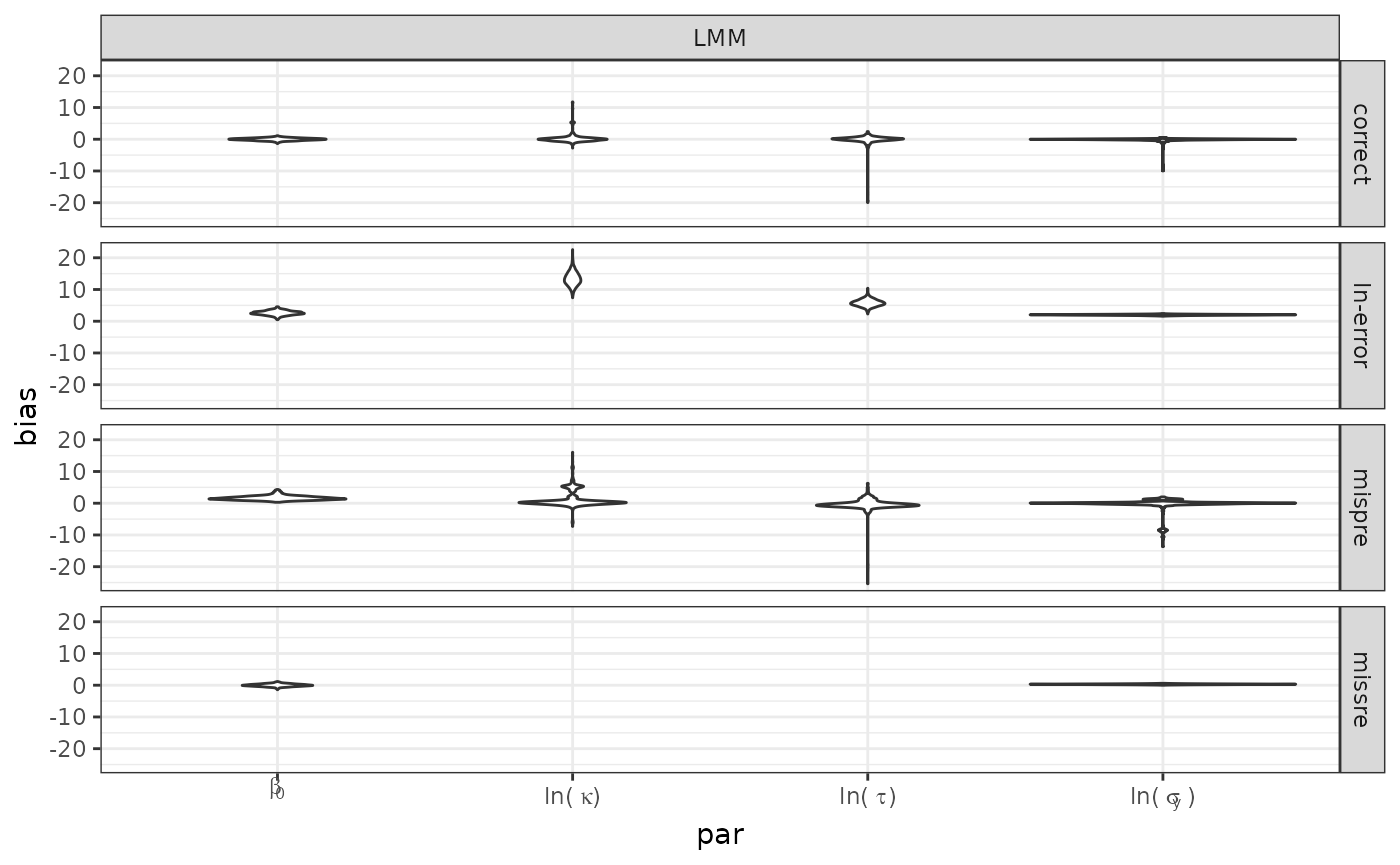
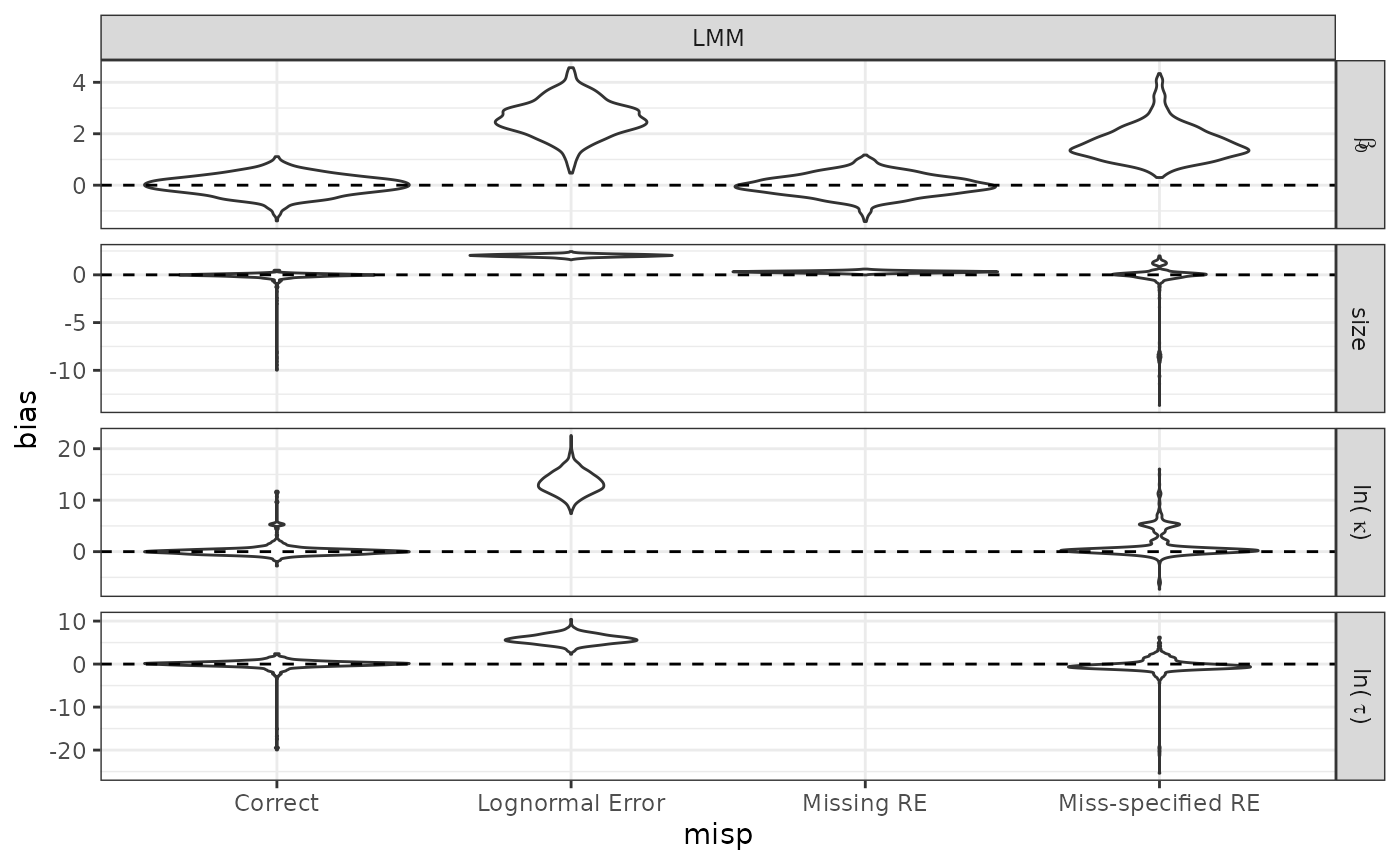
cli-147-224

diff --git a/articles/TMB-validation-figures-results-mles.html b/articles/TMB-validation-figures-results-mles.html
@@ -127,6 +127,60 @@
 
     
     
+<div class="sourceCode" id="cb1"><pre class="downlit sourceCode r">
+<code class="sourceCode R"><span><span class="va">mles</span><span class="op">$</span><span class="va">misp</span> <span class="op">&lt;-</span> <span class="fu"><a href="https://rdrr.io/r/base/factor.html" class="external-link">factor</a></span><span class="op">(</span><span class="va">mles</span><span class="op">$</span><span class="va">misp</span>,</span>
+<span>                    levels <span class="op">=</span> <span class="fu"><a href="https://rdrr.io/r/base/c.html" class="external-link">c</a></span><span class="op">(</span></span>
+<span>                      <span class="st">"correct"</span>, </span>
+<span>                      <span class="st">"overdispersion"</span>, </span>
+<span>                      <span class="st">"gamma-normal"</span>,</span>
+<span>                      <span class="st">"hsk"</span>,</span>
+<span>                      <span class="st">"nb-pois"</span>,</span>
+<span>                      <span class="st">"missunifcov"</span>,</span>
+<span>                      <span class="st">"pois-zip"</span>,</span>
+<span>                      <span class="st">"ln-error"</span>,</span>
+<span>                      <span class="st">"missre"</span>,</span>
+<span>                      <span class="st">"mu0"</span>,</span>
+<span>                      <span class="st">"mispre"</span></span>
+<span>                    <span class="op">)</span>,</span>
+<span>                    labels <span class="op">=</span> <span class="fu"><a href="https://rdrr.io/r/base/c.html" class="external-link">c</a></span><span class="op">(</span></span>
+<span>                      <span class="st">"Correct"</span>, </span>
+<span>                      <span class="st">"Overdispersion"</span>, </span>
+<span>                      <span class="st">"Gamma - Normal"</span>,</span>
+<span>                      <span class="st">"Hsk"</span>,</span>
+<span>                      <span class="st">"NB-Pois"</span>,</span>
+<span>                      <span class="st">"Missing Covariate"</span>,</span>
+<span>                      <span class="st">"Pois-ZIP"</span>,</span>
+<span>                      <span class="st">"Lognormal Error"</span>,</span>
+<span>                      <span class="st">"Missing RE"</span>,</span>
+<span>                      <span class="st">"Missing Drift"</span>,</span>
+<span>                      <span class="st">"Miss-specified RE"</span></span>
+<span>                    <span class="op">)</span></span>
+<span>            <span class="op">)</span></span>
+<span><span class="va">mles</span><span class="op">$</span><span class="va">par</span><span class="op">[</span><span class="va">mles</span><span class="op">$</span><span class="va">model</span> <span class="op">==</span> <span class="st">'simpleGLMM'</span> <span class="op">&amp;</span> <span class="va">mles</span><span class="op">$</span><span class="va">type</span> <span class="op">==</span> <span class="st">'LMM'</span> <span class="op">&amp;</span> <span class="va">mles</span><span class="op">$</span><span class="va">par</span> <span class="op">==</span> <span class="st">'beta'</span><span class="op">]</span> <span class="op">&lt;-</span> <span class="st">"beta_1"</span></span>
+<span></span>
+<span><span class="va">mles</span><span class="op">$</span><span class="va">par</span> <span class="op">&lt;-</span> <span class="fu"><a href="https://rdrr.io/r/base/factor.html" class="external-link">factor</a></span><span class="op">(</span><span class="va">mles</span><span class="op">$</span><span class="va">par</span>,</span>
+<span>                   levels <span class="op">=</span> <span class="fu"><a href="https://rdrr.io/r/base/c.html" class="external-link">c</a></span><span class="op">(</span></span>
+<span>                     <span class="st">"mu"</span>,</span>
+<span>                     <span class="st">"beta"</span>, </span>
+<span>                     <span class="st">"beta_1"</span>, </span>
+<span>                     <span class="st">"beta_2"</span>,   </span>
+<span>                     <span class="st">"theta"</span>,</span>
+<span>                     <span class="st">"ln_sig_y"</span>,  </span>
+<span>                     <span class="st">"ln_sig_u"</span>, </span>
+<span>                     <span class="st">"ln_kappa"</span>,</span>
+<span>                     <span class="st">"ln_tau"</span></span>
+<span>                   <span class="op">)</span>,</span>
+<span>                   labels <span class="op">=</span> <span class="fu"><a href="https://rdrr.io/r/base/c.html" class="external-link">c</a></span><span class="op">(</span></span>
+<span>                     <span class="fu"><a href="https://rdrr.io/r/base/expression.html" class="external-link">expression</a></span><span class="op">(</span><span class="va">mu</span><span class="op">)</span>,</span>
+<span>                     <span class="fu"><a href="https://rdrr.io/r/base/expression.html" class="external-link">expression</a></span><span class="op">(</span><span class="va">beta</span><span class="op">[</span><span class="fl">0</span><span class="op">]</span><span class="op">)</span>, </span>
+<span>                     <span class="fu"><a href="https://rdrr.io/r/base/expression.html" class="external-link">expression</a></span><span class="op">(</span><span class="va">beta</span><span class="op">[</span><span class="fl">0</span><span class="op">]</span><span class="op">)</span>, </span>
+<span>                     <span class="fu"><a href="https://rdrr.io/r/base/expression.html" class="external-link">expression</a></span><span class="op">(</span><span class="va">beta</span><span class="op">[</span><span class="fl">1</span><span class="op">]</span><span class="op">)</span>,   </span>
+<span>                     <span class="st">"size"</span>,</span>
+<span>                     <span class="fu"><a href="https://rdrr.io/r/base/expression.html" class="external-link">expression</a></span><span class="op">(</span><span class="st">"ln("</span><span class="op">~</span><span class="va">sigma</span><span class="op">[</span><span class="va">y</span><span class="op">]</span><span class="op">~</span><span class="st">")"</span><span class="op">)</span>,  </span>
+<span>                     <span class="fu"><a href="https://rdrr.io/r/base/expression.html" class="external-link">expression</a></span><span class="op">(</span><span class="st">"ln("</span><span class="op">~</span><span class="va">sigma</span><span class="op">[</span><span class="va">u</span><span class="op">]</span><span class="op">~</span><span class="st">")"</span><span class="op">)</span>, </span>
+<span>                     <span class="fu"><a href="https://rdrr.io/r/base/expression.html" class="external-link">expression</a></span><span class="op">(</span><span class="st">"ln("</span><span class="op">~</span><span class="va">kappa</span><span class="op">~</span><span class="st">")"</span><span class="op">)</span>, </span>
+<span>                     <span class="fu"><a href="https://rdrr.io/r/base/expression.html" class="external-link">expression</a></span><span class="op">(</span><span class="st">"ln("</span><span class="op">~</span><span class="va">tau</span><span class="op">~</span><span class="st">")"</span><span class="op">)</span></span>
+<span>                   <span class="op">)</span><span class="op">)</span></span></code></pre></div>
 <div class="section level2">
 <h2 id="linear-model">Linear Model<a class="anchor" aria-label="anchor" href="#linear-model"></a>
 </h2>
